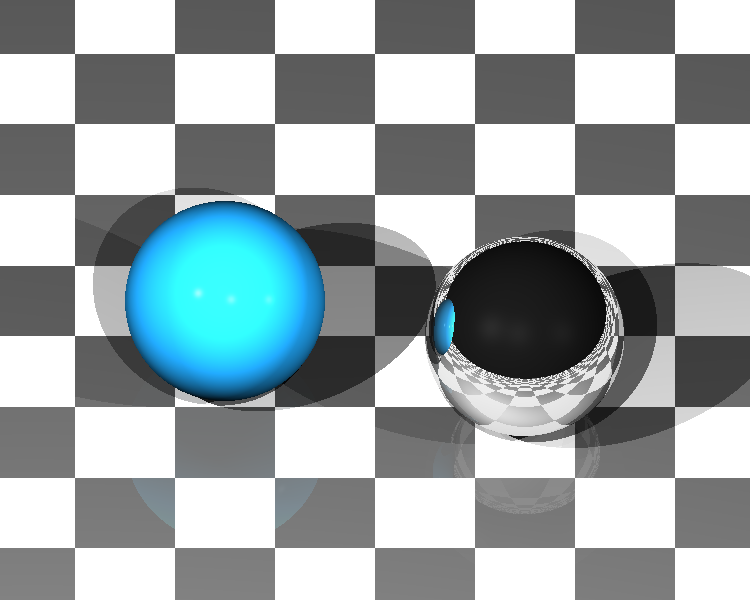
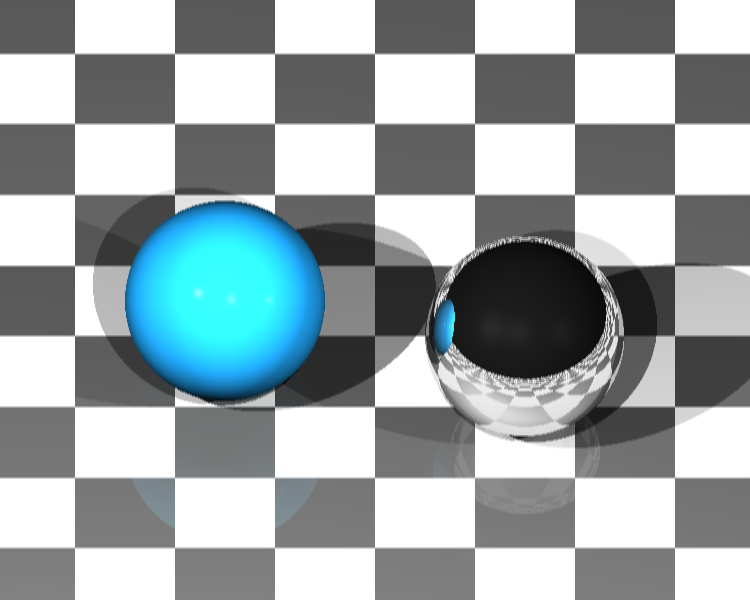
Added basic anti aliasing

diff --git a/Ray-Tracing/Components/Renderer.cpp b/Ray-Tracing/Components/Renderer.cpp
@@ -10,7 +10,9 @@
 
 using json = nlohmann::json;
 
-#define NUM_THREADS 8
+#define NUM_THREADS 6
+#define MIN_DELAY 2
+#define MAX_DELAY 8
 
 const int Renderer::default_width = 650;
 const int Renderer::default_height = 500;
@@ -21,7 +23,7 @@ static inline Uint32 convertVectorToColor(const glm::vec3& color) {
 	return (0xff000000 | (Uint32(color.r) << 16) | (Uint32(color.g) << 8) | Uint32(color.b));
 }
 
-Renderer::Renderer() : _width(default_width), _height(default_height), _ambient_light_factor(default_ambient_factor), _background_color(default_background_color), _window(nullptr), _image(nullptr), _camera(nullptr) {
+Renderer::Renderer() : _width(default_width), _height(default_height), _numBounces(3), _ambient_light_factor(default_ambient_factor), _background_color(default_background_color), _window(nullptr), _image(nullptr), _camera(nullptr) {
 	if (SDL_Init(SDL_INIT_VIDEO)) {
 		SDL_Log("SDL failed to initialize: %s\n", SDL_GetError());
 		std::exit(1);
@@ -104,7 +106,8 @@ int Renderer::processSection(void* data) {
 	for (int y = bounds->yMin; y <= bounds->yMax; y++) {
 		for (int x = 0; x < r->_image->w; x++) {
 			Ray ray = r->_camera->getRay(x, r->_image->h - y);
-			((Uint32*)r->_image->pixels)[y * r->_image->w + x] = convertVectorToColor(r->traceRay(ray, 3));
+			r->_intermediate[y * r->_image->w + x] = r->traceRay(ray, r->_numBounces);
+			// ((Uint32*)r->_image->pixels)[y * r->_image->w + x] = convertVectorToColor(r->traceRay(ray, 3));
 		}
 	}
 	delete bounds;
@@ -127,6 +130,7 @@ bool Renderer::configure(const std::string& filename) {
 			_background_color = glm::vec3(bc[0], bc[1], bc[2]);
 			_width = env["width"];
 			_height = env["height"];
+			_numBounces = env["num_bounces"];
 		}
 
 		// Setup Camera
@@ -209,6 +213,26 @@ bool Renderer::configure(const std::string& filename) {
 	return true;
 }
 
+glm::vec3 Renderer::antiAlias(int x, int y) const {
+	glm::vec3 res(0, 0, 0);
+	int count = 0;
+	for (int i = -1; i <= 1; i++) {
+		for (int j = -1; j <= 1; j++) {
+			int tx = x + i;
+			int ty = y + j;
+			if (tx < 0 || ty < 0 || tx >= _image->w || ty >= _image->h) {
+				continue;
+			}
+			res += _intermediate[ty * _image->w + x];
+			count++;
+		}
+	}
+	res.r /= count;
+	res.g /= count;
+	res.b /= count;
+	return res;
+}
+
 bool Renderer::loadScene(const std::string& filename) {
 	// Configure Renderer from scene description
 	if (!this->configure(filename)) {
@@ -221,6 +245,7 @@ bool Renderer::loadScene(const std::string& filename) {
 		return false;
 	}
 	_image = SDL_GetWindowSurface(_window);
+	_intermediate.resize(_width * _height);
 	return true;
 }
 
@@ -241,6 +266,13 @@ bool Renderer::render() {
 	for (int i = 0; i < NUM_THREADS; i++) {
 		SDL_WaitThread(threads[i], NULL);
 	}
+	for (int y = 0; y < _image->h; y++) {
+		for (int x = 0; x < _image->w; x++) {
+			
+			((Uint32*)_image->pixels)[y * _image->w + x] = convertVectorToColor(antiAlias(x, y));
+		}
+	}
+
 	steady_clock::time_point end = clock.now();
 	SDL_Log("Render Time - %f ms\n", duration<float, std::milli>(end - start).count());
 	SDL_ShowWindow(_window);

diff --git a/Ray-Tracing/Components/Renderer.h b/Ray-Tracing/Components/Renderer.h
@@ -20,10 +20,12 @@ protected:
 	static const glm::vec3 default_background_color;
 	int _width;
 	int _height;
+	int _numBounces;
 	float _ambient_light_factor;
 	glm::vec3 _background_color;
 	SDL_Window* _window;
 	SDL_Surface* _image;
+	std::vector<glm::vec3> _intermediate;
 	Camera* _camera;
 	std::vector<Surface*> _objects;
 	std::vector<Light*> _lights;
@@ -38,6 +40,7 @@ protected:
 	bool configure(const std::string& filename);
 	glm::vec3 traceRay(const Ray& ray, int bounces = 1, Surface* source = nullptr);
 	static int processSection(void* data);
+	glm::vec3 antiAlias(int x, int y) const;
 public:
 	Renderer();
 	~Renderer();

diff --git a/README.md b/README.md
@@ -9,16 +9,16 @@ The files containing the scene description used to render each of the following 
 
 ![alt text](https://github.com/jmielc2/Ray-Tracing/blob/master/docs/rendered-scene-1.png?raw=true)
 
-Render Time (Release Version): 125.038307 ms
+Render Time (Release Version): 40.251438 ms
 
 ### Scene 2
 
 ![alt text](https://github.com/jmielc2/Ray-Tracing/blob/master/docs/rendered-scene-2.png?raw=true)
 
-Render Time (Release Version): 68.089103 ms
+Render Time (Release Version): 26.895424 ms
 
 ### Scene 3
 
 ![alt text](https://github.com/jmielc2/Ray-Tracing/blob/master/docs/rendered-scene-3.png?raw=true)
 
-Render Time  (Release Version): 132.899688 ms
+Render Time  (Release Version): 48.936584 ms
